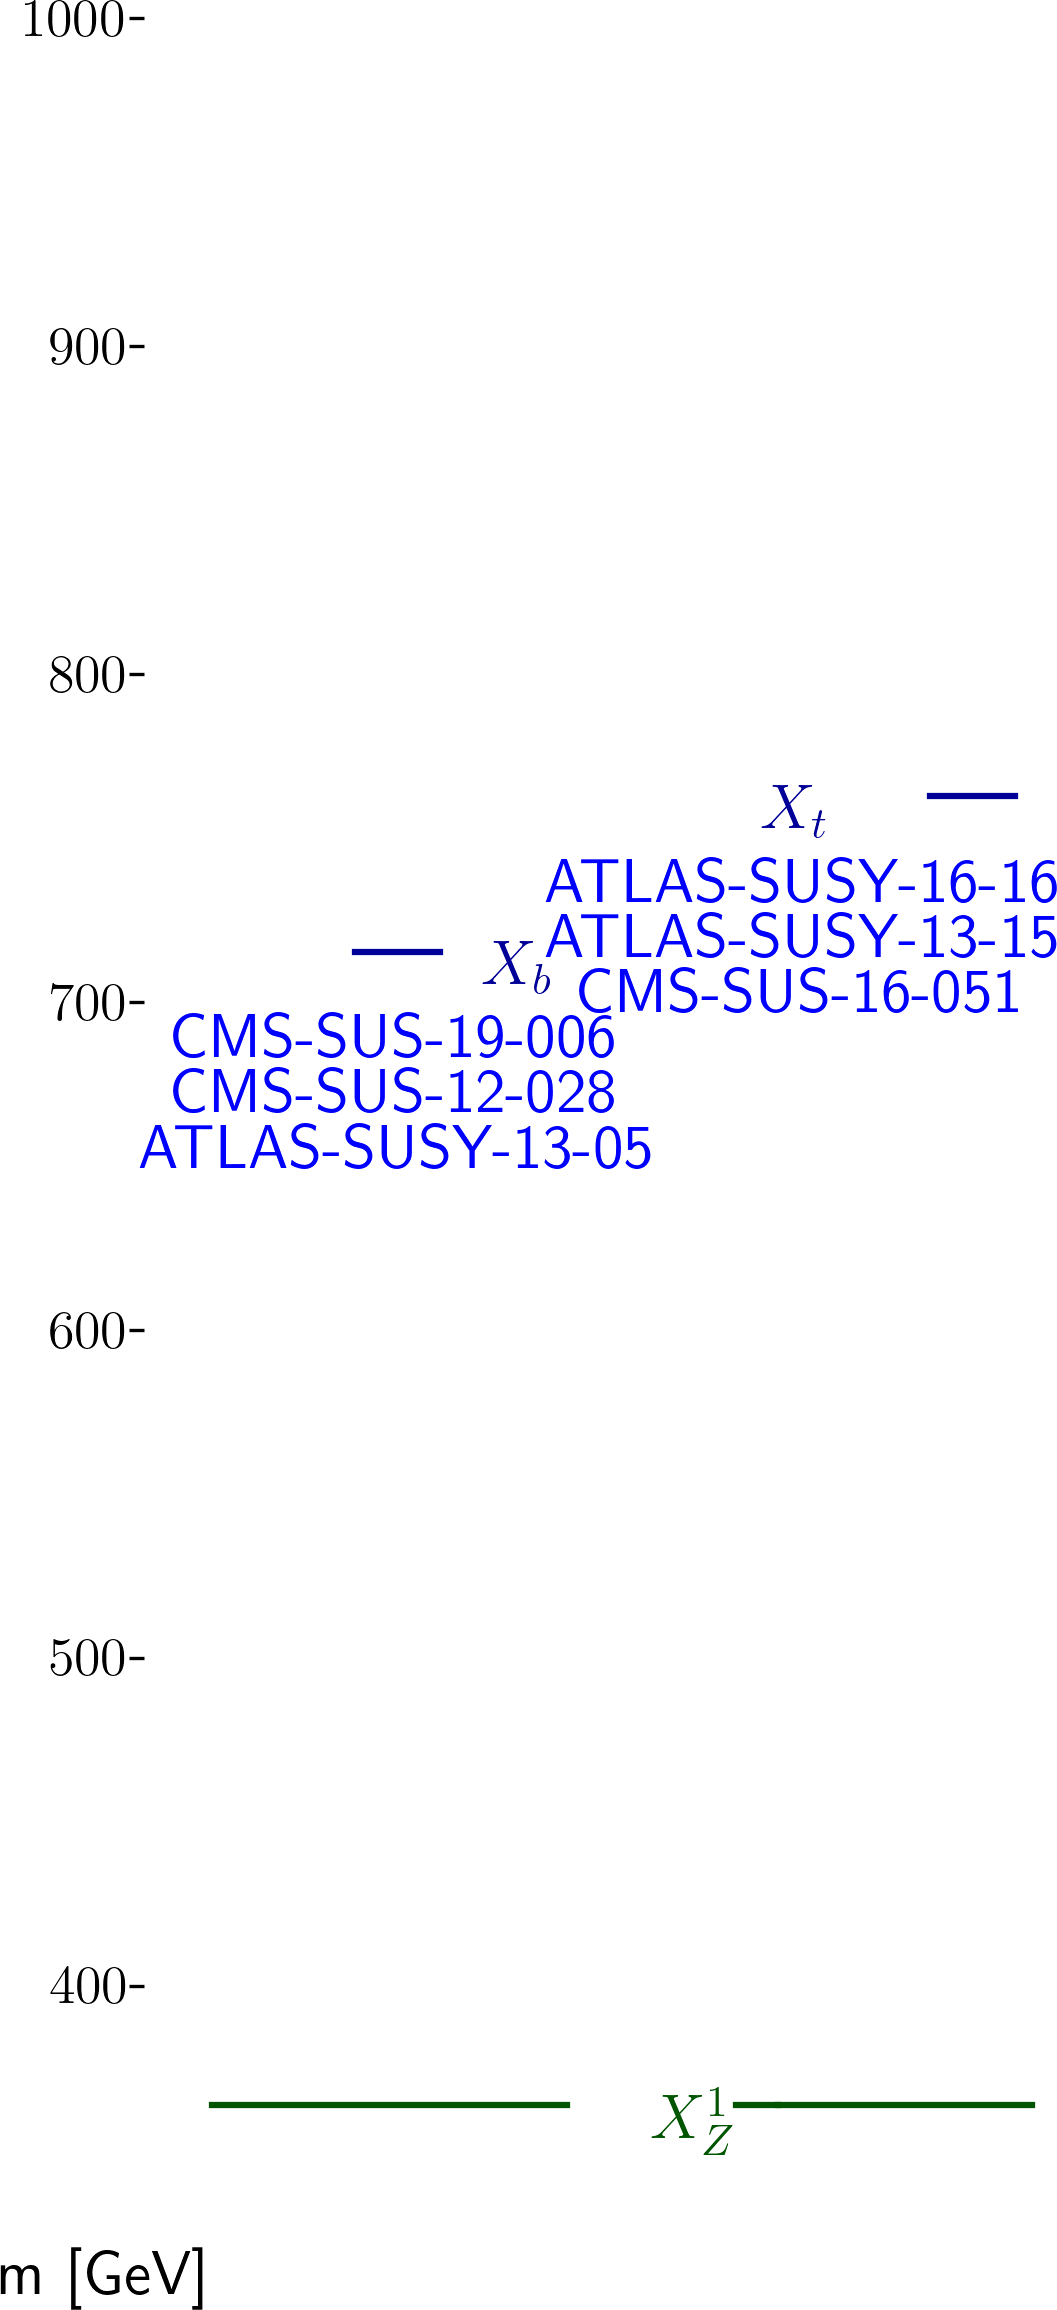
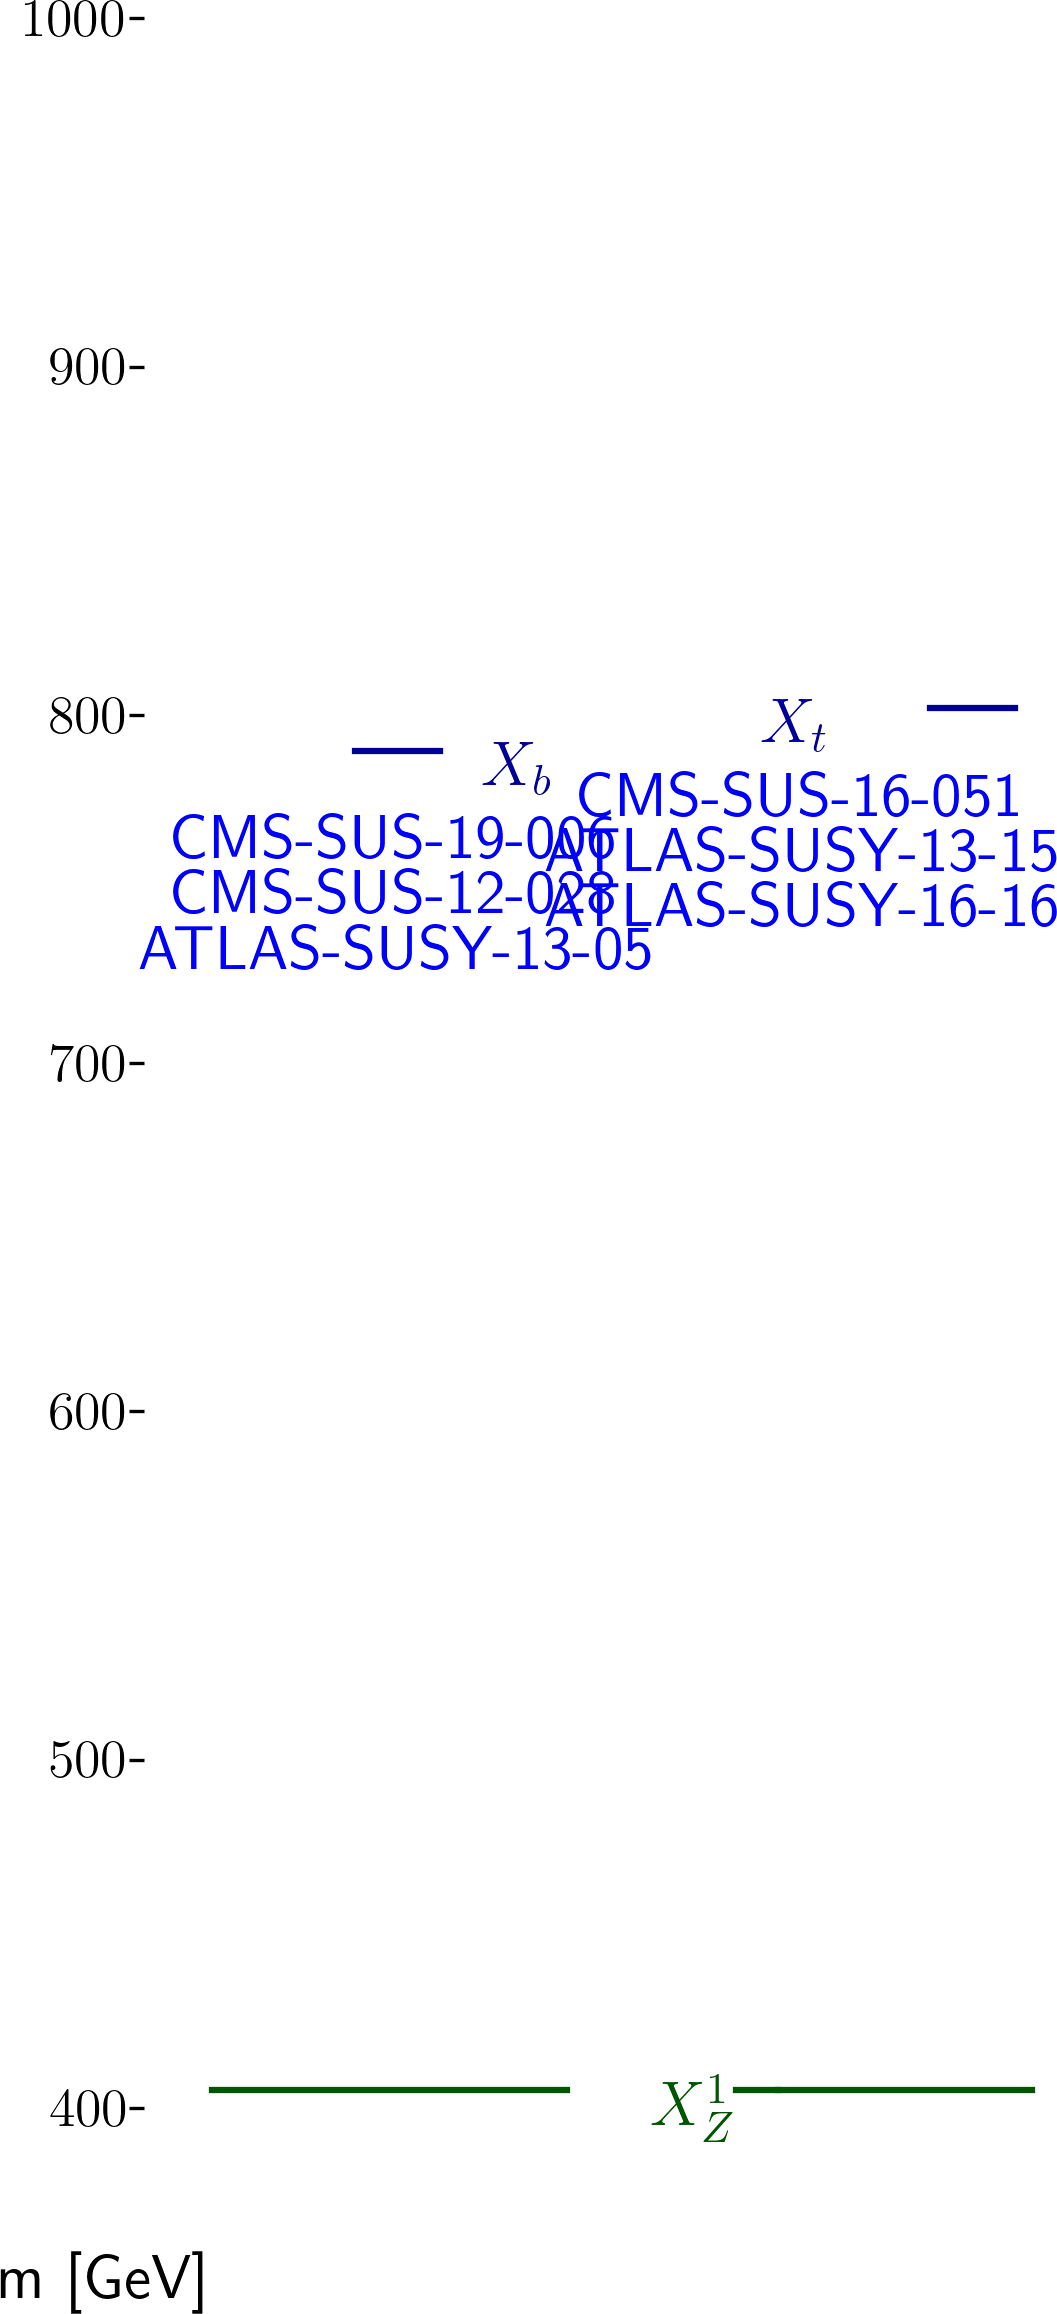
automated update by plotHiscore.py

diff --git a/protomodels/latest/index.html b/protomodels/latest/index.html
@@ -1,31 +1,31 @@
 <html>
 <body>
 <center>
-<table><td><h1>Current best protomodel: K=10.00</h1><td><img height=60px src=https://smodels.github.io/pics/banner.png></table>
+<table><td><h1>Current best protomodel: K=10.35</h1><td><img height=60px src=https://smodels.github.io/pics/banner.png></table>
 </center>
-<b><a href=./hiscore.slha>ProtoModel</a> <a href=./pmodel.py>(dict)</a> produced with <a href=https://smodels.github.io/docs/Validation124signal1>database v1.2.4signal1</a>, combination strategy <a href=./matrix_aggressive.png>aggressive</a> in walker 8 step 580.</b> K plots for: <a href=./M1000022.png?11487242>X<sub>Z</sub><sup>1</sup></a>, <a href=./M1000006.png?11487242>X<sub>t</sub></a>, <a href=./M1000005.png?11487242>X<sub>b</sub></a>. HPD plots for: <a href=./llhd1000006.png?11487242>X<sub>t</sub></a>, <a href=./llhd1000005.png?11487242>X<sub>b</sub></a>. SSM plots for: <a href=./ssm_-1000006_1000006.png?11487242>(x&#772;<sub>t</sub>,X<sub>t</sub>)</a><br>
+<b><a href=./hiscore.slha>ProtoModel</a> <a href=./pmodel.py>(dict)</a> produced with <a href=https://smodels.github.io/docs/Validation124signal3>database v1.2.4signal3</a>, combination strategy <a href=./matrix_aggressive.png>aggressive</a> in walker 49 step 571.</b> K plots for: <a href=./M1000022.png?11488024>X<sub>Z</sub><sup>1</sup></a>, <a href=./M1000006.png?11488024>X<sub>t</sub></a>, <a href=./M1000005.png?11488024>X<sub>b</sub></a>. HPD plots for: <a href=./llhd1000006.png?11488024>X<sub>t</sub></a>, <a href=./llhd1000005.png?11488024>X<sub>b</sub></a>. SSM plots for: <a href=./ssm_-1000006_1000006.png?11488024>(x&#772;<sub>t</sub>,X<sub>t</sub>)</a><br>
 <table width=80%>
 <tr><td>
-<br><b>36 predictions available. Highest r values are:</b><br><ul>
-<li><a href=https://cms-results.web.cern.ch/cms-results/public-results/publications/SUS-16-009/>CMS-SUS-16-009</a>:T2tt r=1.30, r<sub>exp</sub>=0.34<br>
-<li><a href=http://cms-results.web.cern.ch/cms-results/public-results/publications/SUS-19-006/index.html>CMS-SUS-19-006</a>:T2tt r=1.27, r<sub>exp</sub>=1.10<br>
-<li><a href=http://cms-results.web.cern.ch/cms-results/public-results/publications/SUS-16-036/index.html>CMS-SUS-16-036</a>:T2bb r=1.22, r<sub>exp</sub>=1.06<br>
-<li><a href=http://cms-results.web.cern.ch/cms-results/public-results/publications/SUS-16-032/index.html>CMS-SUS-16-032</a>:T2bb r=1.13, r<sub>exp</sub>=N/A<br>
-<li><a href=https://atlas.web.cern.ch/Atlas/GROUPS/PHYSICS/PAPERS/SUSY-2016-28/>ATLAS-SUSY-2016-28</a>:T2bb r=0.72, r<sub>exp</sub>=N/A<br>
+<br><b>34 predictions available. Highest r values are:</b><br><ul>
+<li><a href=http://cms-results.web.cern.ch/cms-results/public-results/publications/SUS-19-006/index.html>CMS-SUS-19-006</a>:T2tt r=1.30, r<sub>exp</sub>=1.57<br>
+<li><a href=http://cms-results.web.cern.ch/cms-results/public-results/publications/SUS-16-036/index.html>CMS-SUS-16-036</a>:T2bb r=1.28, r<sub>exp</sub>=0.62<br>
+<li><a href=http://cms-results.web.cern.ch/cms-results/public-results/publications/SUS-16-033/index.html>CMS-SUS-16-033</a>:T2bb r=1.01, r<sub>exp</sub>=0.55<br>
+<li><a href=https://atlas.web.cern.ch/Atlas/GROUPS/PHYSICS/PAPERS/SUSY-2016-16/>ATLAS-SUSY-2016-16</a>:T2tt r=0.73, r<sub>exp</sub>=1.04<br>
+<li><a href=http://cms-results.web.cern.ch/cms-results/public-results/publications/SUS-16-032/index.html>CMS-SUS-16-032</a>:T2bb r=0.64, r<sub>exp</sub>=N/A<br>
 </ul>
 <td><br><b>K values without analyses: (contribution)</b><br>
 <ul>
-<li> <a href=https://atlas.web.cern.ch/Atlas/GROUPS/PHYSICS/PAPERS/SUSY-2016-16/>ATLAS-SUSY-2016-16</a>: -2.44 (16%)
-<li> <a href=https://twiki.cern.ch/twiki/bin/view/CMSPublic/PhysicsResultsSUS12028>CMS-SUS-12-028</a>: -2.46 (16%)
-<li> <a href=http://cms-results.web.cern.ch/cms-results/public-results/publications/SUS-16-051/index.html>CMS-SUS-16-051</a>: -2.46 (16%)
-<li> <a href=http://cms-results.web.cern.ch/cms-results/public-results/publications/SUS-19-006/index.html>CMS-SUS-19-006</a>: -2.46 (16%)
-<li> <a href=https://atlas.web.cern.ch/Atlas/GROUPS/PHYSICS/PAPERS/SUSY-2013-15/>ATLAS-SUSY-2013-15</a>: -2.85 (17%)
-<li> <a href=https://atlas.web.cern.ch/Atlas/GROUPS/PHYSICS/PAPERS/SUSY-2013-05/>ATLAS-SUSY-2013-05</a>: -2.96 (17%)
-<td><img width=600px src=./texdoc.png?1604487242>
-<br><font size=-1>Last updated: Wed Nov  4 11:54:02 2020</font>
+<li> <a href=https://atlas.web.cern.ch/Atlas/GROUPS/PHYSICS/PAPERS/SUSY-2016-16/>ATLAS-SUSY-2016-16</a>: -0.15 (14%)
+<li> <a href=https://atlas.web.cern.ch/Atlas/GROUPS/PHYSICS/PAPERS/SUSY-2013-05/>ATLAS-SUSY-2013-05</a>: -1.95 (17%)
+<li> <a href=https://twiki.cern.ch/twiki/bin/view/CMSPublic/PhysicsResultsSUS12028>CMS-SUS-12-028</a>: -1.95 (17%)
+<li> <a href=http://cms-results.web.cern.ch/cms-results/public-results/publications/SUS-19-006/index.html>CMS-SUS-19-006</a>: -1.95 (17%)
+<li> <a href=http://cms-results.web.cern.ch/cms-results/public-results/publications/SUS-16-051/index.html>CMS-SUS-16-051</a>: -1.95 (17%)
+<li> <a href=https://atlas.web.cern.ch/Atlas/GROUPS/PHYSICS/PAPERS/SUSY-2013-15/>ATLAS-SUSY-2013-15</a>: -4.05 (19%)
+<td><img width=600px src=./texdoc.png?1604488024>
+<br><font size=-1>Last updated: Wed Nov  4 12:07:04 2020</font>
 </table><table style="width:80%">
-<td width=45%><img height=580px src=./ruler.png?1604487242><td width=55%><img height=380px src=./decays.png?1604487242>
-<font size=-3><iframe type="text/html" height="220px" width="100%s" frameborder="0" src="./rawnumbers.html?1604487242"></iframe></font>
+<td width=45%><img height=580px src=./ruler.png?1604488024><td width=55%><img height=380px src=./decays.png?1604488024>
+<font size=-3><iframe type="text/html" height="220px" width="100%s" frameborder="0" src="./rawnumbers.html?1604488024"></iframe></font>
 </table>
 </body>
 </html>

diff --git a/protomodels/latest/rawnumbers.html b/protomodels/latest/rawnumbers.html
@@ -1,10 +1,10 @@
 <table>
 <tr><th>Analysis Name</th><th>Type</th><th>Dataset</th><th>Topos</th><th>Observed</th><th>Expected</th><th>Approx &sigma;</th><th>Particles</th><th>Signal</th>
 </tr>
-<tr><td><a href=https://atlas.web.cern.ch/Atlas/GROUPS/PHYSICS/PAPERS/SUSY-2013-05/>ATLAS-SUSY-2013-05</a></td><td>em</td> <td>SRA-mCT200</td><td>T2bb</td><td>56</td><td>39 +/- 6</td><td style="text-align:right">2.0 &sigma;</td><td style="text-align:right">X<sub>b</sub></td><td style="text-align:right">-</td></tr>
-<tr><td><a href=https://atlas.web.cern.ch/Atlas/GROUPS/PHYSICS/PAPERS/SUSY-2013-15/>ATLAS-SUSY-2013-15</a></td><td>em</td> <td>tNboost</td><td>T2tt</td><td>4</td><td>3.3 +/- 0.7</td><td style="text-align:right">0.4 &sigma;</td><td style="text-align:right">X<sub>t</sub></td><td style="text-align:right">0</td></tr>
-<tr><td><a href=https://atlas.web.cern.ch/Atlas/GROUPS/PHYSICS/PAPERS/SUSY-2016-16/>ATLAS-SUSY-2016-16</a></td><td>em</td> <td>tN_med</td><td>T2tt</td><td>44</td><td>36.3 +/- 6.6</td><td style="text-align:right">0.9 &sigma;</td><td style="text-align:right">X<sub>t</sub></td><td style="text-align:right">8</td></tr>
-<tr><td><a href=https://twiki.cern.ch/twiki/bin/view/CMSPublic/PhysicsResultsSUS12028>CMS-SUS-12-028</a></td><td>ul</td> <td>-</td><td>T2bb</td><td> 20.6 fb </td><td> 18.3 fb</td><td style="text-align:right">0.3 &sigma;</td><td style="text-align:right">X<sub>b</sub></td><td style="text-align:right">-</td></tr>
-<tr><td><a href=http://cms-results.web.cern.ch/cms-results/public-results/publications/SUS-16-051/index.html>CMS-SUS-16-051</a></td><td>ul</td> <td>-</td><td>T2tt</td><td> 55.7 fb </td><td> 25.1 fb</td><td style="text-align:right">2.4 &sigma;</td><td style="text-align:right">X<sub>t</sub></td><td style="text-align:right">30.62 fb</td></tr>
-<tr><td><a href=http://cms-results.web.cern.ch/cms-results/public-results/publications/SUS-19-006/index.html>CMS-SUS-19-006</a></td><td>ul</td> <td>-</td><td>T2bb</td><td> 42.0 fb </td><td> 19.7 fb</td><td style="text-align:right">2.2 &sigma;</td><td style="text-align:right">X<sub>b</sub></td><td style="text-align:right">-</td></tr>
+<tr><td><a href=https://atlas.web.cern.ch/Atlas/GROUPS/PHYSICS/PAPERS/SUSY-2013-05/>ATLAS-SUSY-2013-05</a></td><td>em</td> <td>SRA-mCT200</td><td>T2bb</td><td>39</td><td>39 +/- 6</td><td style="text-align:right">0.0 &sigma;</td><td style="text-align:right">X<sub>b</sub></td><td style="text-align:right">-</td></tr>
+<tr><td><a href=https://atlas.web.cern.ch/Atlas/GROUPS/PHYSICS/PAPERS/SUSY-2013-15/>ATLAS-SUSY-2013-15</a></td><td>em</td> <td>tNboost</td><td>T2tt</td><td>8</td><td>3.3 +/- 0.7</td><td style="text-align:right">2.4 &sigma;</td><td style="text-align:right">X<sub>t</sub></td><td style="text-align:right">0</td></tr>
+<tr><td><a href=https://atlas.web.cern.ch/Atlas/GROUPS/PHYSICS/PAPERS/SUSY-2016-16/>ATLAS-SUSY-2016-16</a></td><td>em</td> <td>tN_med</td><td>T2tt</td><td>45</td><td>36.3 +/- 6.6</td><td style="text-align:right">1.0 &sigma;</td><td style="text-align:right">X<sub>t</sub></td><td style="text-align:right">8</td></tr>
+<tr><td><a href=https://twiki.cern.ch/twiki/bin/view/CMSPublic/PhysicsResultsSUS12028>CMS-SUS-12-028</a></td><td>ul</td> <td>-</td><td>T2bb</td><td> 8.2 fb </td><td> 13.8 fb</td><td style="text-align:right">-0.8 &sigma;</td><td style="text-align:right">X<sub>b</sub></td><td style="text-align:right">-</td></tr>
+<tr><td><a href=http://cms-results.web.cern.ch/cms-results/public-results/publications/SUS-16-051/index.html>CMS-SUS-16-051</a></td><td>ul</td> <td>-</td><td>T2tt</td><td> 55.1 fb </td><td> 24.5 fb</td><td style="text-align:right">2.5 &sigma;</td><td style="text-align:right">X<sub>t</sub></td><td style="text-align:right">30.62 fb</td></tr>
+<tr><td><a href=http://cms-results.web.cern.ch/cms-results/public-results/publications/SUS-19-006/index.html>CMS-SUS-19-006</a></td><td>ul</td> <td>-</td><td>T2bb</td><td> 31.9 fb </td><td> 14.6 fb</td><td style="text-align:right">2.3 &sigma;</td><td style="text-align:right">X<sub>b</sub></td><td style="text-align:right">-</td></tr>
 </table>

diff --git a/protomodels/latest/pmodel.py b/protomodels/latest/pmodel.py
@@ -1,1 +1,1 @@
-{'masses': {1000022: 353.495, 1000005: 705.324, 1000006: 752.671}, 'ssmultipliers': {(1000022, 1000022): 0.411, (1000005, 1000005): 0.37, (-1000005, 1000005): 0.37, (-1000005, -1000005): 0.37, (1000005, 1000022): 0.036, (-1000005, 1000022): 0.37, (1000006, 1000006): 0.53, (-1000006, 1000006): 0.53, (-1000006, -1000006): 0.53, (1000006, 1000022): 0.53, (-1000006, 1000022): 0.53, (1000005, 1000006): 0.477, (-1000006, 1000005): 0.0, (-1000005, 1000006): 0.477, (-1000006, -1000005): 0.477}, 'decays': {1000022: {}, 1000005: {(1000022, 5): 1.0}, 1000006: {(1000022, 6): 1.0}}, 'timestamp': 'Wed Nov  4 11:53:25 2020', 'Z': 3.745, 'K': 9.998, 'walkerid': 8, 'step': 580, 'codever': '1.0', 'dbver': '1.2.4signal1'}
+{'masses': {1000022: 395.049, 1000005: 779.711, 1000006: 791.9}, 'ssmultipliers': {(1000022, 1000022): 0.001, (1000005, 1000005): 0.314, (-1000005, 1000005): 0.314, (-1000005, -1000005): 1.105, (1000005, 1000022): 0.51, (-1000005, 1000022): 14.534, (1000006, 1000006): 0.985, (-1000006, 1000006): 0.985, (-1000006, -1000006): 0.985, (1000006, 1000022): 0.985, (-1000006, 1000022): 0.985, (1000005, 1000006): 0.985, (-1000006, 1000005): 0.985, (-1000005, 1000006): 0.985, (-1000006, -1000005): 0.985}, 'decays': {1000022: {}, 1000005: {(1000022, 5): 1.0}, 1000006: {(1000022, 6): 1.0}}, 'timestamp': 'Wed Nov  4 12:06:27 2020', 'Z': 3.794, 'K': 10.348, 'walkerid': 49, 'step': 571, 'codever': '1.0', 'dbver': '1.2.4signal3'}
